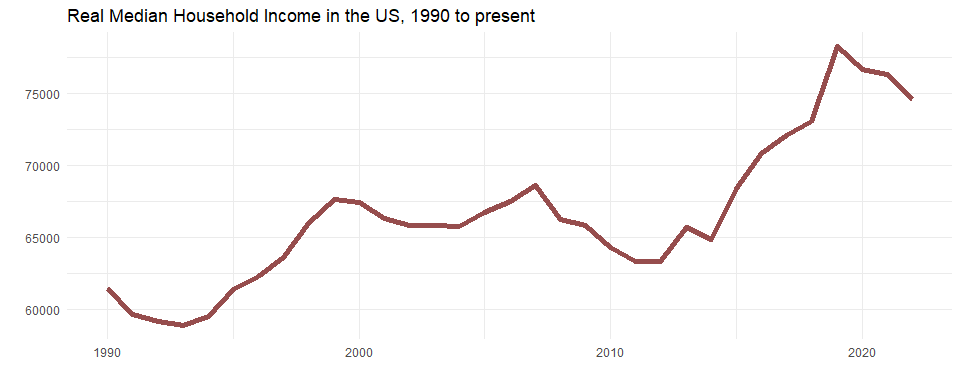
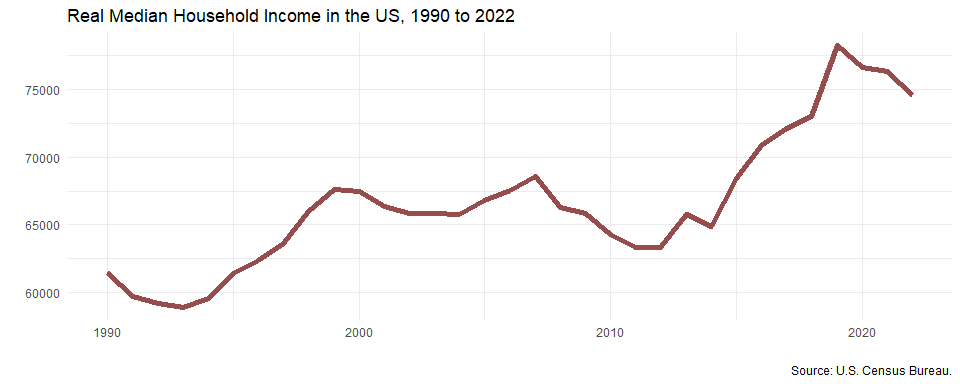
edit text

diff --git a/src/04-workshop.md b/src/04-workshop.md
@@ -5,7 +5,7 @@ YH
 
 - [Labor and employment](#labor-and-employment)
 - [Demographics in Singapore](#demographics-in-singapore)
-- [Household income](#household-income)
+- [Real median household income](#real-median-household-income)
 - [Realtime Carpark availability](#realtime-carpark-availability)
 
 ## Labor and employment
@@ -111,7 +111,7 @@ df_gender; df_income
 
 </div>
 
-## Household income
+## Real median household income
 
 As API calls to FRED requires an API key, we need to sign up for an API
 key first.
@@ -145,7 +145,8 @@ income %>%
   ggplot(aes(x = year, y = value)) +
   geom_line(lwd = 2, color = "indianred4", alpha = 0.9) +
   theme_minimal() +
-  labs(x = "", y = "", title = "Real Median Household Income in the US, 1990 to present")
+  labs(x = "", y = "", title = "Real Median Household Income in the US, 1990 to 2022",
+       caption = "Source: U.S. Census Bureau.")
 ```
 
 ![](04-workshop_files/figure-gfm/unnamed-chunk-3-1.png)<!-- -->
@@ -176,19 +177,19 @@ head(df_carpark)
 
 | CarParkID | Area      | Development        | Location          | AvailableLots | LotType | Agency |
 |:----------|:----------|:-------------------|:------------------|--------------:|:--------|:-------|
-| 1         | Marina    | Suntec City        | 1.29375 103.85718 |           608 | C       | LTA    |
-| 3         | Marina    | Raffles City       | 1.29382 103.85319 |           317 | C       | LTA    |
-| 4         | Marina    | The Esplanade      | 1.29011 103.85561 |           610 | C       | LTA    |
-| 5         | Marina    | Millenia Singapore | 1.29251 103.86009 |           528 | C       | LTA    |
-| 6         | Marina    | Singapore Flyer    | 1.28944 103.86311 |           232 | C       | LTA    |
-| 16        | Harbfront | VivoCity P3        | 1.26421 103.82263 |           263 | C       | LTA    |
+| 1         | Marina    | Suntec City        | 1.29375 103.85718 |           555 | C       | LTA    |
+| 3         | Marina    | Raffles City       | 1.29382 103.85319 |           243 | C       | LTA    |
+| 4         | Marina    | The Esplanade      | 1.29011 103.85561 |           614 | C       | LTA    |
+| 5         | Marina    | Millenia Singapore | 1.29251 103.86009 |           477 | C       | LTA    |
+| 6         | Marina    | Singapore Flyer    | 1.28944 103.86311 |           234 | C       | LTA    |
+| 16        | Harbfront | VivoCity P3        | 1.26421 103.82263 |           142 | C       | LTA    |
 
 </div>
 
 ### The `ltaer` package
 
-Additionally, there’s an `R` package, `ltaer`, that help us obtain data
-from the LTA APIs.
+Additionally, there’s an API client `R` package, `ltaer`, that help us
+obtain data from the LTA DataMall.
 
 - Read the full documentation of the package
   [here](https://shaunkhoo.github.io/ltaer/index.html).
@@ -199,8 +200,7 @@ install.packages('devtools')
 devtools::install_github('shaunkhoo/ltaer', force = TRUE)
 ```
 
-- The data set on carpark availability can be retrieved with the
-  following code.
+- The data set on carpark availability can be retrieved with:
 
 ``` r
 # Retrieve data on carpark availability
@@ -212,11 +212,11 @@ head(carpark_avail)
 
 | CarParkID | Area      | Development        | Location          | AvailableLots | LotType | Agency | lat     | lng       |
 |:----------|:----------|:-------------------|:------------------|--------------:|:--------|:-------|:--------|:----------|
-| 1         | Marina    | Suntec City        | 1.29375 103.85718 |           608 | C       | LTA    | 1.29375 | 103.85718 |
-| 3         | Marina    | Raffles City       | 1.29382 103.85319 |           317 | C       | LTA    | 1.29382 | 103.85319 |
-| 4         | Marina    | The Esplanade      | 1.29011 103.85561 |           610 | C       | LTA    | 1.29011 | 103.85561 |
-| 5         | Marina    | Millenia Singapore | 1.29251 103.86009 |           528 | C       | LTA    | 1.29251 | 103.86009 |
-| 6         | Marina    | Singapore Flyer    | 1.28944 103.86311 |           232 | C       | LTA    | 1.28944 | 103.86311 |
-| 16        | Harbfront | VivoCity P3        | 1.26421 103.82263 |           263 | C       | LTA    | 1.26421 | 103.82263 |
+| 1         | Marina    | Suntec City        | 1.29375 103.85718 |           555 | C       | LTA    | 1.29375 | 103.85718 |
+| 3         | Marina    | Raffles City       | 1.29382 103.85319 |           243 | C       | LTA    | 1.29382 | 103.85319 |
+| 4         | Marina    | The Esplanade      | 1.29011 103.85561 |           614 | C       | LTA    | 1.29011 | 103.85561 |
+| 5         | Marina    | Millenia Singapore | 1.29251 103.86009 |           477 | C       | LTA    | 1.29251 | 103.86009 |
+| 6         | Marina    | Singapore Flyer    | 1.28944 103.86311 |           234 | C       | LTA    | 1.28944 | 103.86311 |
+| 16        | Harbfront | VivoCity P3        | 1.26421 103.82263 |           142 | C       | LTA    | 1.26421 | 103.82263 |
 
 </div>
